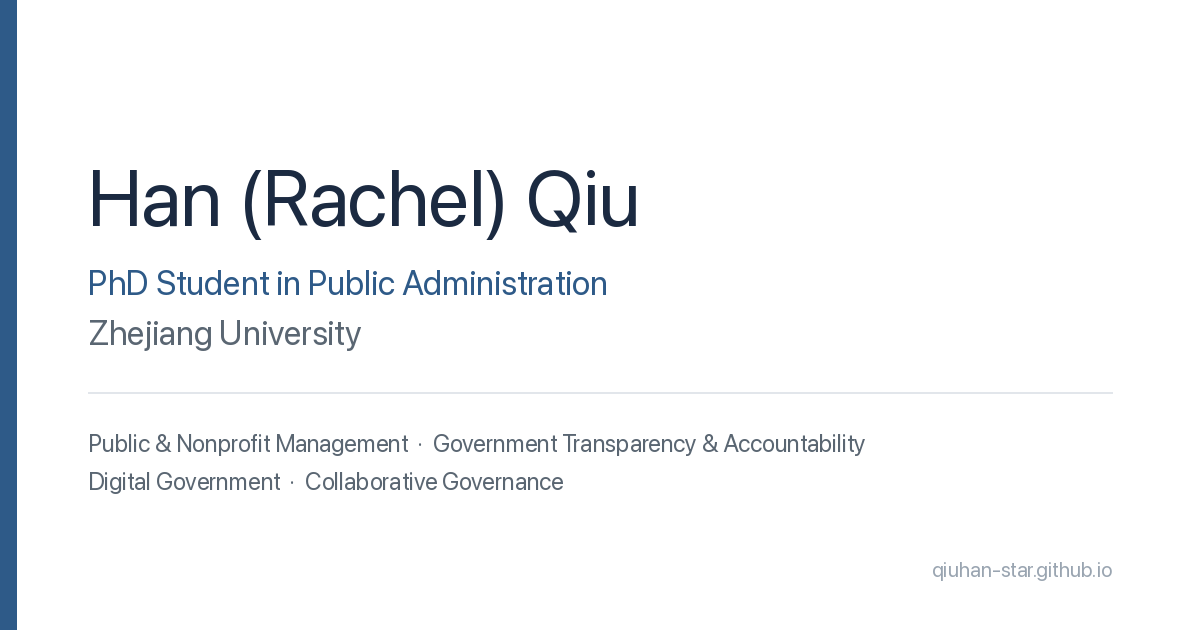
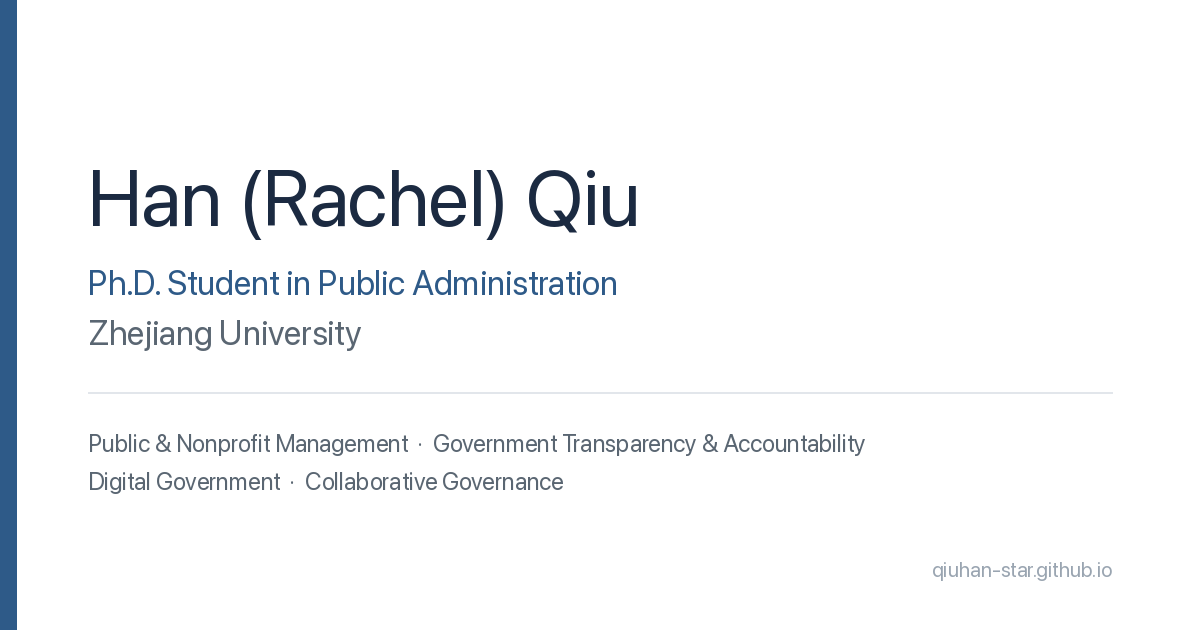
Use Ph.D. spelling consistently in bio, description, and share card

Changed region(s): [[0.0925, 0.4222, 0.5242, 0.4825]]

diff --git a/_pages/about.md b/_pages/about.md
@@ -17,7 +17,7 @@ redirect_from:
 ## Who Am I?
 Hello! I'm Han Qiu (<ruby>邱<rt>Qiū</rt></ruby><ruby>涵<rt>Hán</rt></ruby>), also known as Rachel.
 
-I am currently a PhD student in Public Administration at the [School of Public Affairs](https://www.spa.zju.edu.cn/), [Zhejiang University](https://www.zju.edu.cn/), where I am fortunate to be advised by [Professor Zhongsheng Wu](https://mypage.zju.edu.cn/en/0022142).
+I am currently a Ph.D. student in Public Administration at the [School of Public Affairs](https://www.spa.zju.edu.cn/), [Zhejiang University](https://www.zju.edu.cn/), where I am fortunate to be advised by [Professor Zhongsheng Wu](https://mypage.zju.edu.cn/en/0022142).
 
 I completed my M.A. in Public Administration at the [School of Public Affairs](https://spa.xmu.edu.cn/), [Xiamen University](https://www.xmu.edu.cn/), where I was fortunate to be guided by [Professor Wenxuan Yu](https://spa.xmu.edu.cn/info/1237/3095.htm).
 

diff --git a/_pages/markdown.md b/_pages/markdown.md
@@ -11,7 +11,7 @@ redirect_from:
 **Welcome to My Personal Homepage!** Thank you for visiting.
 
 ## 1. About Me
-- **Introduction**: Hello, I'm Han (Rachel) Qiu, a passionate PhD student at Zhejiang University.
+- **Introduction**: Hello, I'm Han (Rachel) Qiu, a passionate Ph.D. student at Zhejiang University.
 - **News**: This section will feature some of the latest updates.
 
 ## 2. Site Navigation
